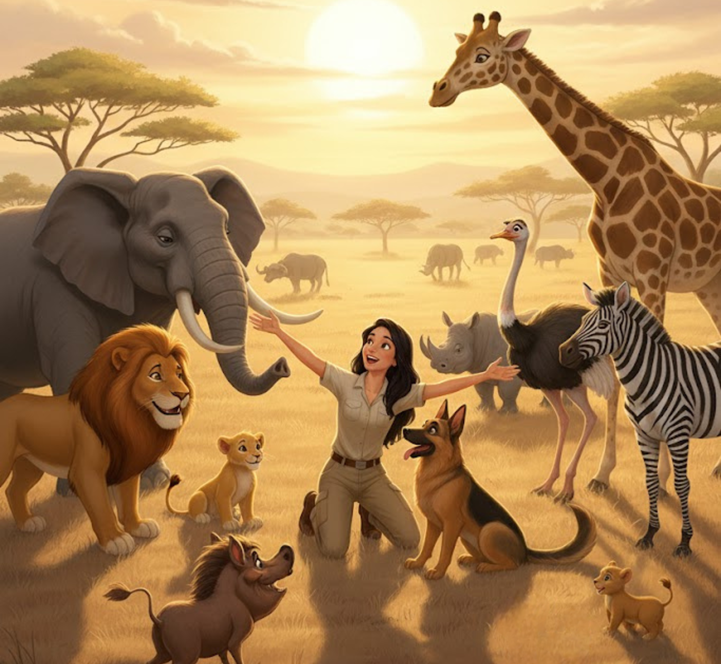
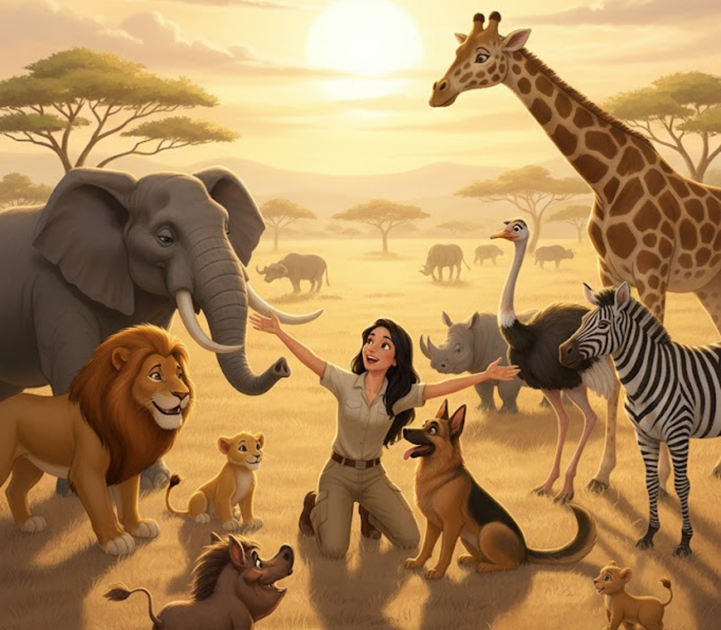
crt

diff --git a/Afrika/Tanzanija/animacija.html b/Afrika/Tanzanija/animacija.html
@@ -16,7 +16,7 @@
 <!-- Open Graph -->
 <meta property="og:title" content="Sandra na safariju u Tanzaniji – susret sa Nalom | Tamo daleko" />
 <meta property="og:description" content="Putopis iz Afrike: Sandra na safariju u Tanzaniji, susret sa belom lavicom Nalom, žirafama i zebrama. Priča o snovima koji su pronašli svoje mesto pod velikim afričkim suncem." />
-<meta property="og:image" content="https://sandra-putuje.github.io/tamo-daleko/Afrika/Tanzanija/animacija.jpg" />
+<meta property="og:image" content="https://sandra-putuje.github.io/tamo-daleko/Afrika/Tanzanija/animacija.png" />
 <meta property="og:url" content="https://sandra-putuje.github.io/tamo-daleko/Afrika/Tanzanija/animacija.html" />
 <meta property="og:type" content="article" />
 <meta property="og:locale" content="sr_RS" />
@@ -26,7 +26,7 @@
 <meta name="twitter:card" content="summary_large_image" />
 <meta name="twitter:title" content="Sandra na safariju u Tanzaniji – susret sa Nalom | Tamo daleko" />
 <meta name="twitter:description" content="Sandra na safariju u Tanzaniji: susret sa belom lavicom Nalom, žirafama i zebrama u srcu Afrike. Emotivna priča o ostvarenim snovima." />
-<meta name="twitter:image" content="https://sandra-putuje.github.io/tamo-daleko/Afrika/Tanzanija/animacija.jpg" />
+<meta name="twitter:image" content="https://sandra-putuje.github.io/tamo-daleko/Afrika/Tanzanija/animacija.png" />
 
 <!-- Google tag (gtag.js) -->
 <script async src="https://www.googletagmanager.com/gtag/js?id=G-NLYKLXD49W"></script>
